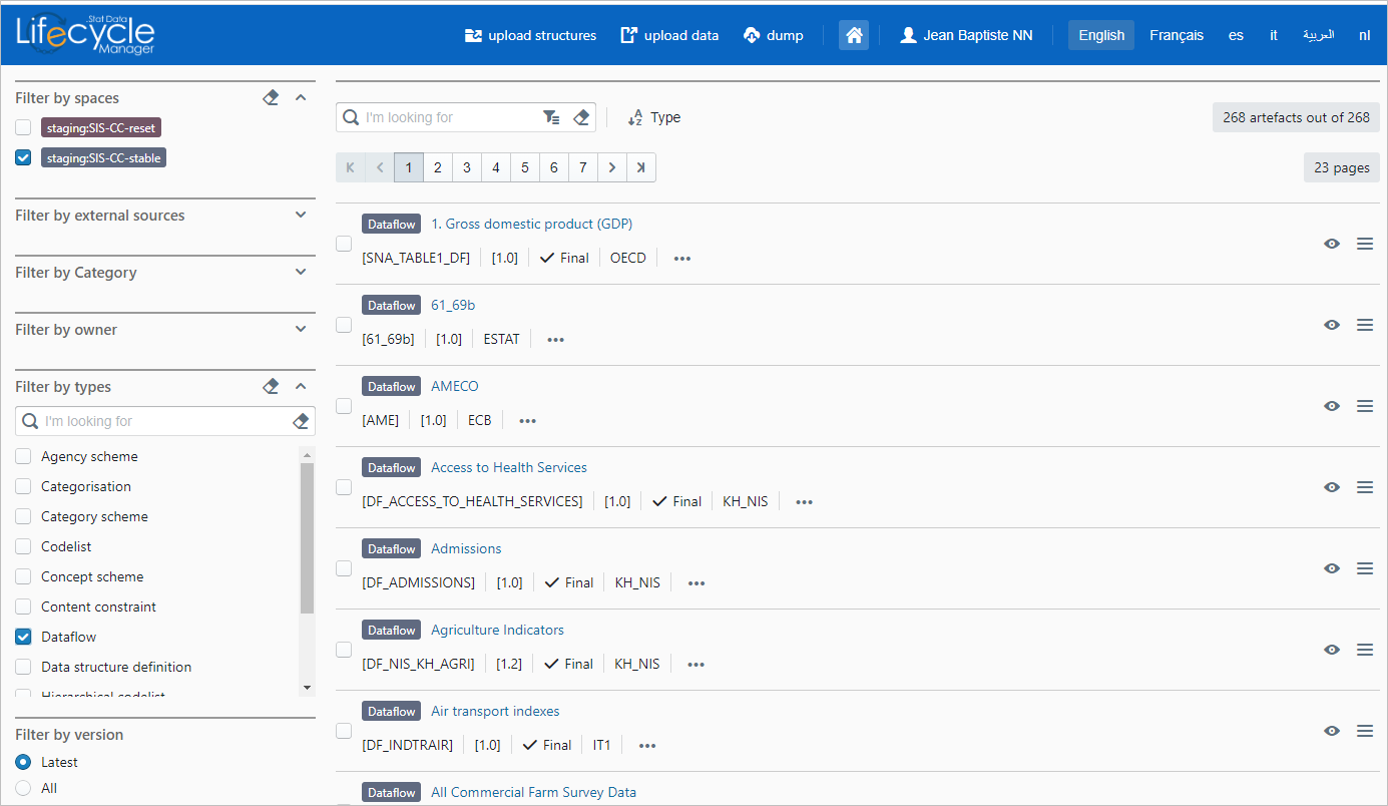
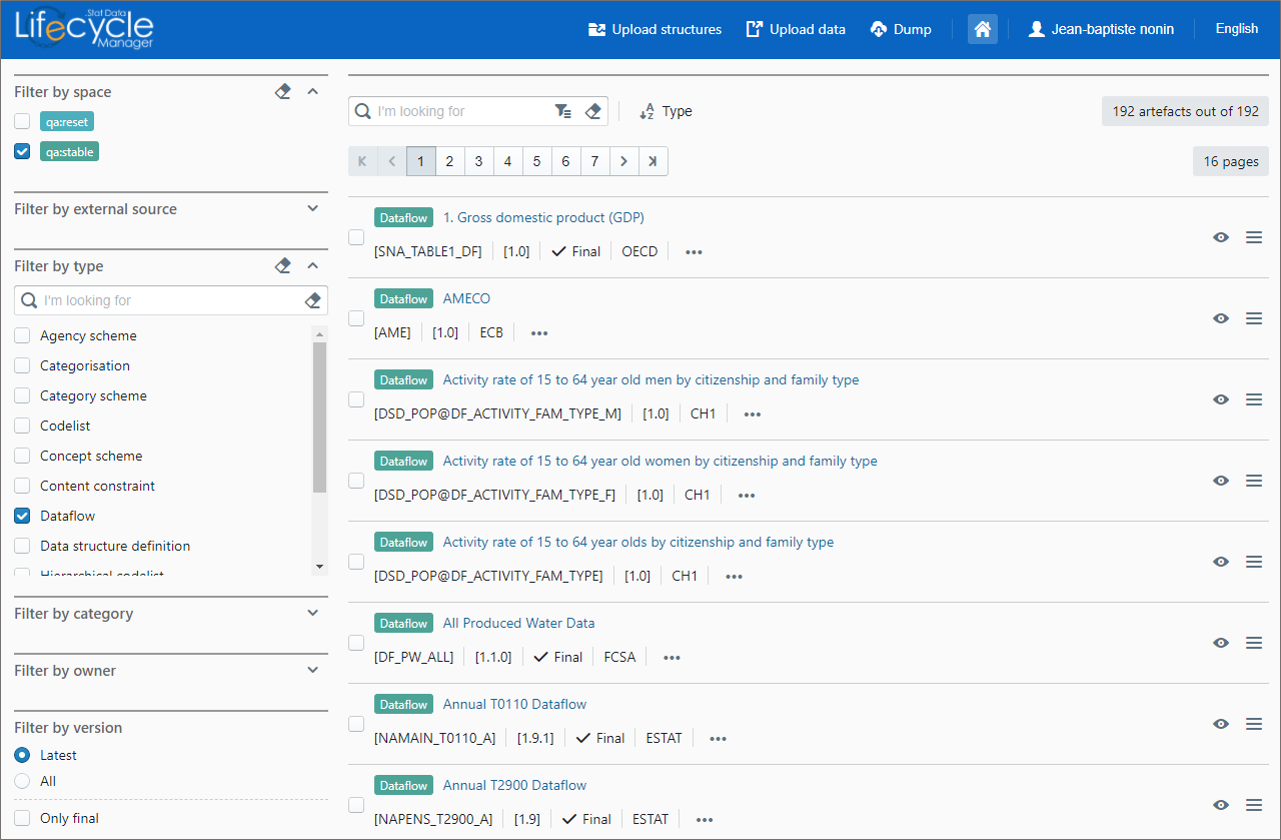
Update  dlm filters order

Changed region(s): [[0.0, 0.0, 1.0, 1.0], [0.4684, 0.8685, 0.5308, 0.8995], [0.2186, 0.8375, 0.2498, 0.8685]]

diff --git a/content/using-dlm/dlm_overview.md b/content/using-dlm/dlm_overview.md
@@ -15,7 +15,7 @@ weight: 230
   - [Spaces and external sources](#spaces-and-external-sources)
   - [Types](#types)
   - [Category](#category)
-  - [Owner and My artefacts](#owner-and-my-artefacts)
+  - [Owner](#owner)
   - [Version](#version)
 - [List of artefacts](#list-of-artefacts)
   - [Display Options](#display-options)
@@ -90,7 +90,7 @@ For each selected Category Scheme or Category, only those artefacts are listed t
 
 ![dlm overview](/dotstatsuite-documentation/images/dlm-overview-4.png)
 
-#### Owner and My artefacts
+#### Owner
 The multi-selection filter "**Filter by owner**" displays all *SDMX* Agency Schemes contained in the currently selected data space(s) in hierarchical trees, meaning that the Agencies listed in the **_top SDMX_** Agency Scheme are listed first and once the user clicks on one of these Agencies, it additionally displays the Agencies contained in the related **_sub_** Agency Scheme. Users can continue in this way to navigate through the full hierarchy of sub Agencies.  
 For each selected Agency, only those artefacts are listed that are maintained by any of the selected Agencies (Means: The Agency ID is used as the Maintenance Agency in the unique identification of the maintainable artefact).  
 
@@ -98,14 +98,14 @@ Note that even though each Agency Scheme is a flat list of agencies, the SDMX st
 
 This filter allows for a spotlight search if there is a sufficient number of agencies listed.  
 
-The **"My artefacts"** option is currently unused and will be removed.  
-
 Note:  
 - Agencies are uniqually identified by their concatenated "agencyID" which includes all perent agencies except the top SDMX agency, e.g. "OECD.ECO". These concatenanted agencyIDs are used when defining an agency as a maintenance agency of an artefact.
 - Agencies are not versioned and always have a version "1.0"
 - Agencies are always non-final (with "isFinal=false")
 
 ![dlm overview](/dotstatsuite-documentation/images/dlm-overview-5.png)
+
+The filter option **My artefact** was deprecated and has been removed as this was unused *([November 30, 2020 Release .Stat Suite JS 6.1.0](https://sis-cc.gitlab.io/dotstatsuite-documentation/changelog/#november-30-2020))*.
 
 #### Version
 The filter "**Filter by version**" allows users selecting:  
